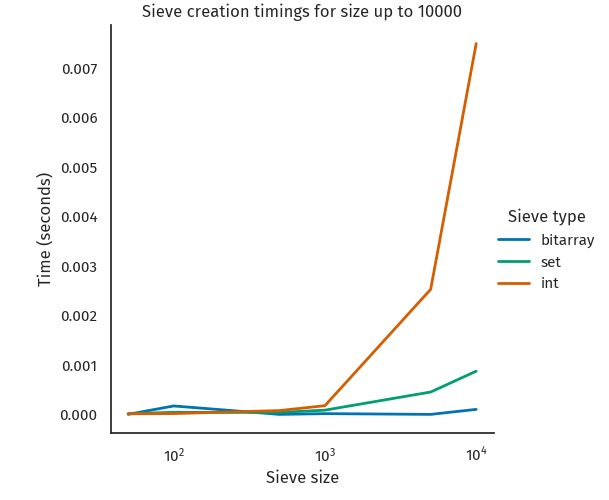
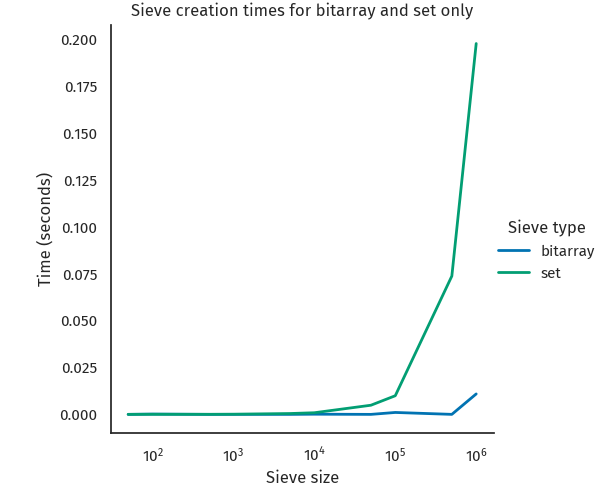
Fuller sieve timing documentation

diff --git a/profiling/timing_plots.py b/profiling/timing_plots.py
@@ -106,7 +106,7 @@ def main() -> None:
     plt.show()
 
     df_sans_int = df.filter(pl.col("sieve_type") != "int")
-    _ = base_g(
+    fig = base_g(
         df_sans_int, title="Sieve creation times for bitarray and set only"
     )
     fig.savefig("sans_int.png")

diff --git a/docs/source/sieve.rst b/docs/source/sieve.rst
@@ -37,12 +37,32 @@ There are reasons, but first let me give an overview of the major differences.
 
     This is also a pure Python implementation that uses a Python integer as the sieve and uses bit twidling when creating the sieve. This makes it memory efficient, but it is excruciatingly slow.
 
+.. _all_figure:
 
 .. figure:: images/all_data.png
     :alt: Graph showing that IntSieve creation time is really slow
 
+    Seconds to create sieves
+
     Time it takes in seconds for sieves of various sizes from 100 to 100000
     to be created by the different classes.
+
+The very real time differences between the creating a :class:`Sieve` and a :class:`SetSieve` is obscured in figure :ref:`all_figure` by the enormous amount
+of time it takes to construct an :class:`IntSieve`.
+So here is a graph showing the times just for :class:`Sieve` and a :class:`SetSieve`.
+
+.. _sans_int_figure: 
+
+.. figure:: images/sans_int.png
+    :alt: Graph showing that Sieve is more efficient than SetSeive
+
+    Seconds to create sieves (without IntSieve).
+
+Specifically on my system it took approximately 0.011 seconds to create a sieve of all numbers less than or equal to 1 million using the bitarray-based :class:`Sieve`,
+0.198 seconds with :class:`SetSeive`,
+and a minute (59.796 seconds) with :class:`IntSieve`.
+So bitaray was nearly 20 times faster than the set-based sieve construction
+and more than 5000 times faster than the integer-based construction for a sieve size of one million.
 
 The algorithm
 ---------------
